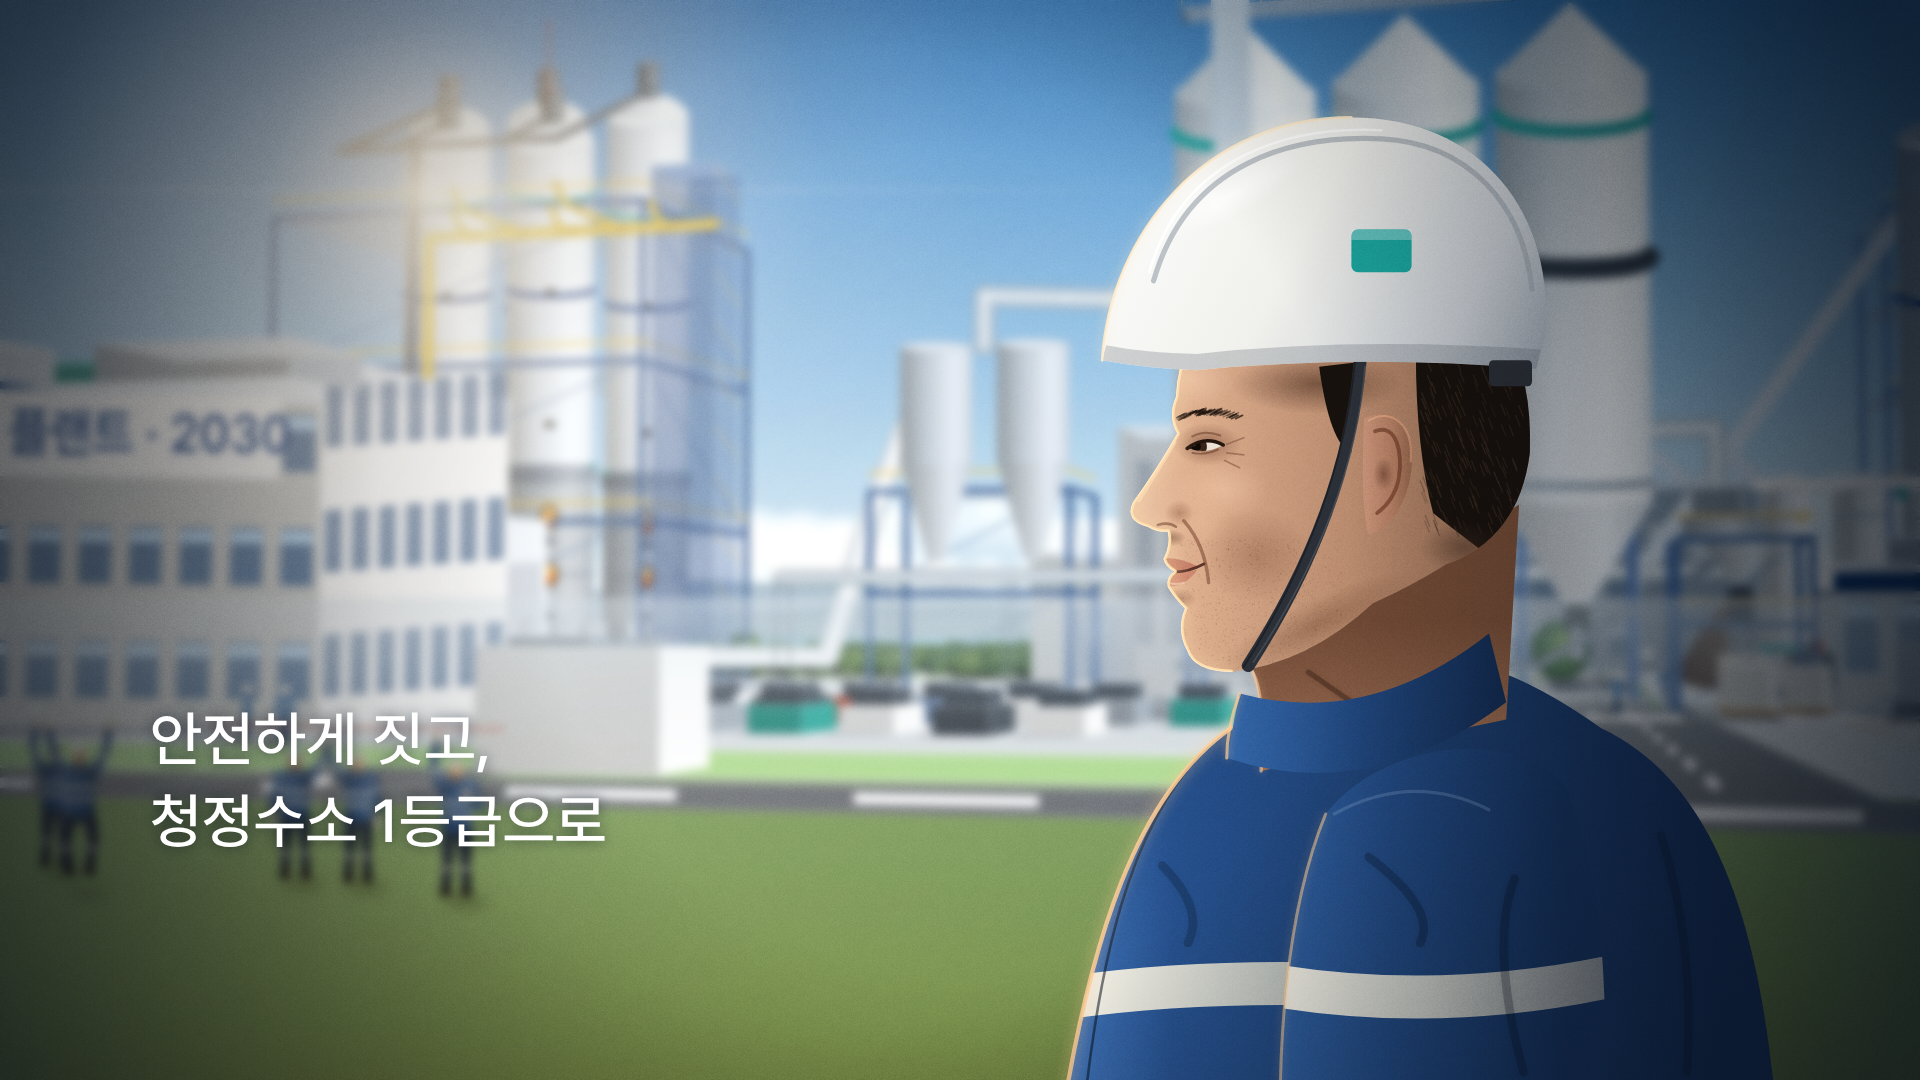
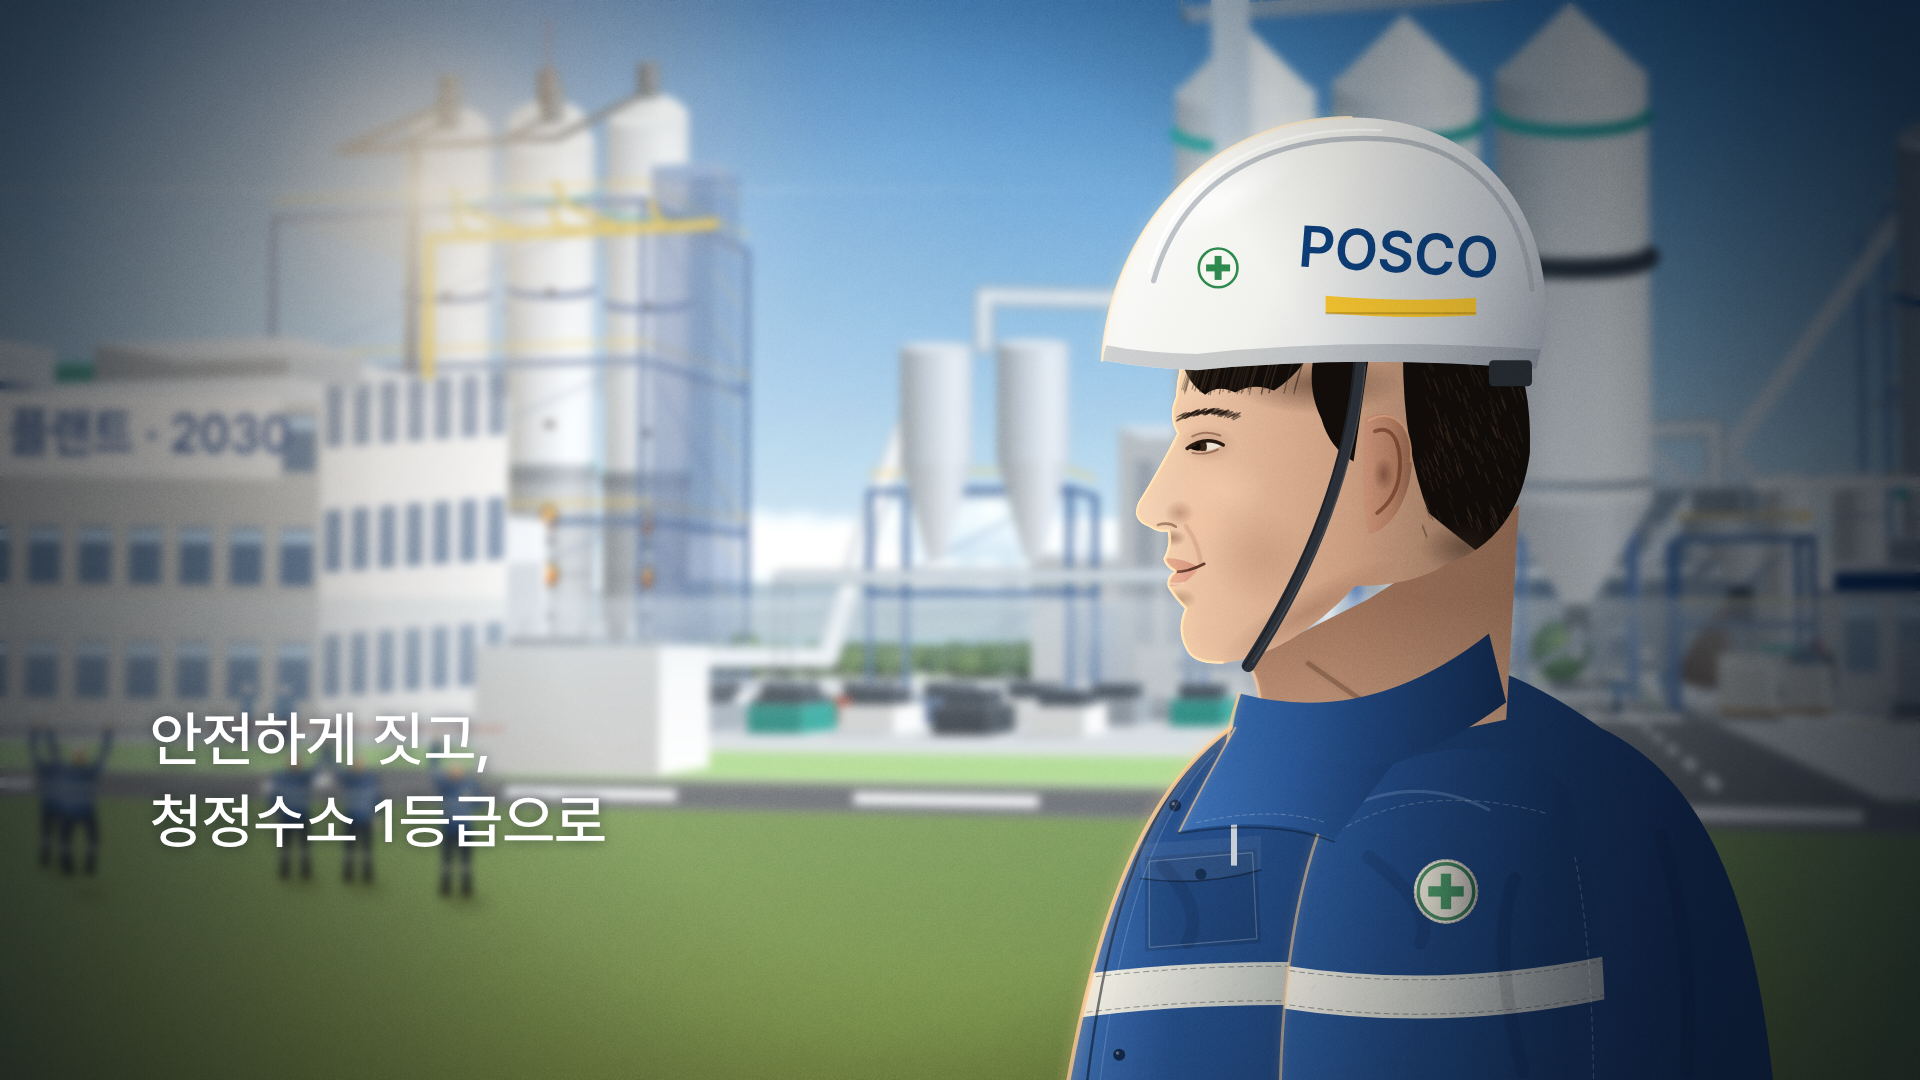
Plate 09A: younger worker, POSCO helmet, detailed workwear
Makes the worker read as late twenties: smoother skin, slimmer
jawline, smaller nose, fuller lips, no crow's feet or stubble, a softer
smile fold and a fringe showing under the brim. The helmet now carries
'POSCO' set in plain type (not a copy of the logo), a yellow band and a
green-cross safety sticker. The work jacket keeps its colour and gains
a shirt collar with stitching, a button placket, a flapped chest
pocket with a pen, an embroidered green-cross patch on the sleeve,
stitched reflective tape, seam lines and a fine twill texture.

Claude-Session: https://claude.ai/code/session_014isZxqUwGxKLbYEc2hccQ6

diff --git a/plates/plate09a_celebration.html b/plates/plate09a_celebration.html
@@ -1208,8 +1208,21 @@ function heroWorker(ox, oy, s) {
   // chest reflective band + placket
   g.fillStyle = lgH(-.64, .2, [[0, '#F4F1E6'], [.5, '#BFC3BE'], [1, '#7E848A']]); g.beginPath(); M(-.7, 1.18); Qc(-.3, 1.12, .2, 1.16); L(.2, 1.26); Qc(-.3, 1.22, -.7, 1.28); g.closePath(); g.fill();
   stroke('rgba(8,16,30,.55)', .006, () => { M(-.37, .66); Cc(-.52, .82, -.62, 1.1, -.66, 1.7); });
+  for (let i = 0; i < 2600; i++) { const x = -.75 + r() * 1.75, y = .5 + r() * 1.25; stroke(r() > .5 ? 'rgba(255,255,255,.018)' : 'rgba(0,0,0,.035)', .0025, () => { M(x, y); L(x + .008, y - .008); }); }
+  // chest pocket with flap, button and pen
+  g.fillStyle = 'rgba(0,0,0,.12)'; g.beginPath(); M(-.5, .9); L(-.24, .88); L(-.23, 1.1); L(-.5, 1.12); g.closePath(); g.fill();
+  stroke('rgba(255,255,255,.22)', .003, () => { M(-.49, .91); L(-.25, .89); L(-.24, 1.09); L(-.49, 1.11); g.closePath(); });
+  g.fillStyle = 'rgba(255,255,255,.06)'; g.beginPath(); M(-.51, .87); L(-.23, .85); L(-.23, .93); Qc(-.37, .97, -.51, .95); g.closePath(); g.fill();
+  stroke('rgba(0,0,0,.35)', .004, () => { M(-.51, .95); Qc(-.37, .97, -.23, .93); });
+  g.fillStyle = '#16304F'; g.beginPath(); g.arc(X(-.37), Y(.94), .013 * s, 0, 7); g.fill();
+  g.fillStyle = '#C9CFD6'; g.fillRect(X(-.3), Y(.8), .014 * s, .12 * s); g.fillStyle = '#1A1D22'; g.fillRect(X(-.302), Y(.78), .018 * s, .035 * s);
+  // buttons on the placket
+  [[-.43, .78], [-.56, 1.36], [-.62, 1.6]].forEach(([x, y]) => { g.fillStyle = '#14294A'; g.beginPath(); g.arc(X(x), Y(y), .014 * s, 0, 7); g.fill(); g.fillStyle = 'rgba(255,255,255,.35)'; g.beginPath(); g.arc(X(x) - .004 * s, Y(y) - .004 * s, .004 * s, 0, 7); g.fill(); });
+  stroke('rgba(255,255,255,.16)', .003, () => { M(-.34, .66); Cc(-.49, .82, -.59, 1.1, -.63, 1.7); });
+  // stitched edges of the chest band
+  g.save(); g.setLineDash([.012 * s, .01 * s]); stroke('rgba(60,60,60,.45)', .0025, () => { M(-.7, 1.19); Qc(-.3, 1.13, .2, 1.17); M(-.7, 1.27); Qc(-.3, 1.21, .2, 1.25); }); g.restore();
   // fabric folds
-  [[-.46, .92, -.36, 1.02, -.4, 1.1], [.7, .85, .78, 1.1, .76, 1.4]].forEach(([a, b, c, d, e, f]) => stroke('rgba(5,12,25,.22)', .02, () => { M(a, b); Qc(c, d, e, f); }, 6));
+  [[-.46, .92, -.36, 1.02, -.4, 1.1], [.7, .85, .78, 1.1, .76, 1.4]].forEach(([a, b, c, d, e, f]) => stroke('rgba(5,12,25,.1)', .03, () => { M(a, b); Qc(c, d, e, f); }, 10));
   g.restore();
   stroke('rgba(255,206,150,.85)', .01, () => { M(-.3, .6); Cc(-.5, .74, -.64, 1.05, -.72, 1.7); }, 14);       // warm rim on the chest edge
   // near arm (sleeve) with reflective band
@@ -1217,48 +1230,62 @@ function heroWorker(ox, oy, s) {
   arm(); g.fillStyle = lgH(-.2, .48, [[0, '#2F5E9E'], [.4, '#21477E'], [1, '#142E56']]); g.fill();
   g.save(); arm(); g.clip();
   g.fillStyle = lgH(-.2, .6, [[0, '#F1EEE4'], [.45, '#C3C6C1'], [1, '#6E747B']]); g.beginPath(); M(-.25, 1.14); Qc(.18, 1.22, .62, 1.12); L(.62, 1.22); Qc(.18, 1.32, -.25, 1.24); g.closePath(); g.fill();
-  [[.02, .9, .18, 1.02, .14, 1.1], [.36, .95, .3, 1.1, .38, 1.4]].forEach(([a, b, c, d, e, f]) => stroke('rgba(5,12,25,.25)', .02, () => { M(a, b); Qc(c, d, e, f); }, 6));
+  for (let i = 0; i < 900; i++) { const x = -.2 + r() * .8, y = .62 + r() * 1.1; stroke(r() > .5 ? 'rgba(255,255,255,.018)' : 'rgba(0,0,0,.035)', .0025, () => { M(x, y); L(x + .008, y - .008); }); }
+  g.save(); g.setLineDash([.012 * s, .01 * s]); stroke('rgba(60,60,60,.45)', .0025, () => { M(-.25, 1.15); Qc(.18, 1.23, .62, 1.13); M(-.25, 1.23); Qc(.18, 1.31, .62, 1.21); });
+  stroke('rgba(255,255,255,.2)', .0028, () => { M(-.05, .84); Qc(.15, .72, .44, .8); M(.5, .9); Cc(.54, 1.1, .55, 1.4, .54, 1.7); }); g.restore();
+  // embroidered safety patch (green cross) on the sleeve
+  { const c = [X(.2), Y(.98)], R = .075 * s; g.fillStyle = '#E9E4D2'; g.beginPath(); g.arc(c[0], c[1], R, 0, 7); g.fill(); g.strokeStyle = '#2E7A48'; g.lineWidth = .008 * s; g.beginPath(); g.arc(c[0], c[1], R * .86, 0, 7); g.stroke();
+    g.fillStyle = '#2E8A4E'; g.fillRect(c[0] - R * .16, c[1] - R * .55, R * .32, R * 1.1); g.fillRect(c[0] - R * .55, c[1] - R * .16, R * 1.1, R * .32);
+    g.save(); g.setLineDash([.006 * s, .005 * s]); g.strokeStyle = 'rgba(60,60,40,.5)'; g.lineWidth = .002 * s; g.beginPath(); g.arc(c[0], c[1], R * .98, 0, 7); g.stroke(); g.restore();
+    const q = g.createLinearGradient(c[0] - R, 0, c[0] + R, 0); q.addColorStop(0, 'rgba(255,255,255,.15)'); q.addColorStop(1, 'rgba(0,0,30,.35)'); g.fillStyle = q; g.beginPath(); g.arc(c[0], c[1], R, 0, 7); g.fill(); }
+  [[.02, .9, .18, 1.02, .14, 1.1], [.36, .95, .3, 1.1, .38, 1.4]].forEach(([a, b, c, d, e, f]) => stroke('rgba(5,12,25,.1)', .03, () => { M(a, b); Qc(c, d, e, f); }, 10));
   stroke('rgba(150,180,220,.25)', .008, () => { M(-.06, .8); Qc(.12, .7, .3, .79); });     // shoulder seam catch-light
   g.restore();
   stroke('rgba(255,206,150,.55)', .007, () => { M(-.08, .8); Cc(-.17, 1.02, -.2, 1.35, -.18, 1.7); }, 10);
 
   /* ---- neck (in shadow under the jaw) ---- */
   g.beginPath(); M(-.26, .44); Qc(-.22, .5, -.23, .7); L(.34, .58); L(.37, .08); L(.02, .3); g.closePath();
-  { const q = g.createLinearGradient(0, Y(.35), 0, Y(.66)); q.addColorStop(0, '#6E4834'); q.addColorStop(1, '#94684F'); g.fillStyle = q; g.fill(); }
-  stroke('rgba(60,36,24,.45)', .012, () => { M(-.12, .47); Qc(-.02, .54, .1, .62); }, 4);
+  { const q = g.createLinearGradient(0, Y(.3), 0, Y(.66)); q.addColorStop(0, '#9A7058'); q.addColorStop(1, '#C49A7E'); g.fillStyle = q; g.fill(); }
+  stroke('rgba(90,58,40,.35)', .012, () => { M(-.12, .45); Qc(-.02, .52, .1, .6); }, 4);
   stroke('rgba(255,200,150,.6)', .008, () => { M(-.25, .47); Qc(-.22, .52, -.23, .7); }, 8);
   // collar stand wraps the neck
   g.beginPath(); M(-.28, .52); Qc(.02, .6, .3, .38); L(.34, .54); Qc(.02, .78, -.31, .67); g.closePath(); g.fillStyle = lgH(-.31, .32, [[0, '#3466A8'], [.5, '#1F4479'], [1, '#132B50']]); g.fill();
   stroke('rgba(255,206,150,.7)', .007, () => { M(-.28, .52); Qc(-.31, .6, -.31, .67); }, 8);
+  g.beginPath(); M(-.29, .6); Qc(-.12, .7, .08, .68); L(-.06, .86); Qc(-.2, .8, -.42, .84); Qc(-.36, .72, -.29, .6); g.closePath();
+  g.fillStyle = lgH(-.42, .08, [[0, '#3F72B6'], [.5, '#2A5694'], [1, '#1A3A6A']]); g.fill();
+  g.save(); g.setLineDash([.01 * s, .008 * s]); stroke('rgba(255,255,255,.22)', .0025, () => { M(-.38, .82); Qc(-.2, .78, -.08, .82); }); g.restore();
+  stroke('rgba(0,0,0,.3)', .005, () => { M(-.42, .845); Qc(-.2, .81, -.06, .865); });
+  stroke('rgba(255,206,150,.6)', .005, () => { M(-.29, .6); Qc(-.36, .72, -.42, .84); }, 6);
 
   /* ---- head ---- */
   const profile = () => {                       // forehead -> brow -> nose -> lips -> chin -> under-jaw
     M(-.395, -.3); Qc(-.425, -.24, -.428, -.17); Qc(-.448, -.125, -.425, -.085);
-    Qc(-.47, -.005, -.528, .075); Qc(-.548, .118, -.494, .132); Qc(-.47, .146, -.447, .143);
+    Qc(-.465, -.005, -.515, .075); Qc(-.534, .116, -.49, .132); Qc(-.47, .146, -.447, .143);
     Qc(-.44, .176, -.457, .207); Qc(-.452, .226, -.432, .236); Qc(-.452, .25, -.447, .272);
-    Qc(-.43, .3, -.407, .322); Qc(-.428, .372, -.402, .42); Qc(-.386, .468, -.3, .47);
+    Qc(-.43, .3, -.407, .322); Qc(-.428, .372, -.405, .415); Qc(-.39, .452, -.32, .45);
   };
-  const head = () => { g.beginPath(); profile(); Qc(-.12, .45, .03, .31); Qc(.12, .27, .2, .22); Qc(.37, .16, .395, -.04); Qc(.4, -.22, .34, -.3); g.closePath(); };
-  head(); g.fillStyle = lgH(-.56, .4, [[0, '#F0CBAD'], [.18, '#DDAE8E'], [.55, '#B98B6E'], [1, '#86604A']]); g.fill();
+  const head = () => { g.beginPath(); profile(); Qc(-.16, .43, -.01, .27); Qc(.12, .27, .2, .22); Qc(.37, .16, .395, -.04); Qc(.4, -.22, .34, -.3); g.closePath(); };
+  head(); g.fillStyle = lgH(-.56, .4, [[0, '#F6D7BE'], [.18, '#EBC3A5'], [.55, '#C99D80'], [1, '#93705A']]); g.fill();
   g.save(); head(); g.clip();
   blob(-.39, -.21, .1, .07, '255,226,196', .35);                      // forehead highlight
-  blob(-.355, -.06, .08, .05, '96,52,34', .5);                        // eye socket
+  blob(-.355, -.06, .07, .045, '120,72,50', .28);                        // eye socket
   blob(-.32, .045, .11, .07, '255,214,182', .4);                      // cheekbone catches the sun
   blob(-.37, .12, .07, .06, '255,205,170', .25);                      // smiling cheek
-  blob(-.24, .2, .13, .11, '110,62,40', .32);                         // under the cheekbone
-  blob(-.1, .36, .26, .06, '90,52,34', .35, -.45);                    // jaw shadow
+  blob(-.22, .21, .13, .11, '140,90,66', .14);                         // under the cheekbone
+  blob(-.12, .33, .24, .05, '110,66,46', .3, -.5);
+  blob(-.25, .19, .1, .12, '150,100,76', .1);                    // jaw shadow
   blob(-.44, .158, .035, .02, '80,40,26', .55);                       // under the nose
   blob(-.42, .3, .04, .025, '90,48,32', .4);                          // under the lower lip
   blob(-.1, -.2, .2, .07, '60,34,22', .55);                           // helmet brim shadow
-  for (let i = 0; i < 900; i++) { const x = -.44 + r() * .4, y = .16 + r() * .32; if (x < -.43 + (y - .16) * .1 && y < .3) continue; g.fillStyle = `rgba(55,35,25,${.06 + r() * .1})`; g.fillRect(X(x), Y(y), 1.2, 1.2); }   // stubble
+  for (let i = 0; i < 0; i++) { const x = -.44 + r() * .4, y = .16 + r() * .32; if (x < -.43 + (y - .16) * .1 && y < .3) continue; g.fillStyle = `rgba(55,35,25,${.06 + r() * .1})`; g.fillRect(X(x), Y(y), 1.2, 1.2); }   // stubble
   // lips
-  g.fillStyle = 'rgba(176,88,72,.55)'; g.beginPath(); M(-.456, .207); Qc(-.43, .2, -.375, .225); L(-.432, .237); g.closePath(); g.fill();
-  g.fillStyle = 'rgba(192,98,82,.5)'; g.beginPath(); M(-.432, .238); Qc(-.39, .236, -.378, .232); Qc(-.41, .275, -.447, .27); g.closePath(); g.fill();
+  g.fillStyle = 'rgba(200,110,96,.5)'; g.beginPath(); M(-.456, .207); Qc(-.43, .2, -.375, .225); L(-.432, .237); g.closePath(); g.fill();
+  g.fillStyle = 'rgba(214,122,108,.48)'; g.beginPath(); M(-.432, .238); Qc(-.39, .236, -.378, .232); Qc(-.41, .275, -.447, .27); g.closePath(); g.fill();
   stroke('rgba(70,30,24,.85)', .006, () => { M(-.433, .237); Qc(-.4, .238, -.362, .218); });
   stroke('rgba(255,230,210,.5)', .005, () => { M(-.445, .262); Qc(-.43, .268, -.41, .262); });
   // smile fold, crow's feet
-  stroke('rgba(110,58,38,.5)', .008, () => { M(-.41, .118); Qc(-.36, .175, -.352, .262); });
-  [[-.31, -.06, -.27, -.075], [-.31, -.04, -.27, -.035], [-.315, -.022, -.28, -.005]].forEach(([a, b, c, d]) => stroke('rgba(110,62,42,.45)', .004, () => { M(a, b); L(c, d); }));
+  stroke('rgba(150,90,64,.16)', .01, () => { M(-.405, .13); Qc(-.375, .17, -.37, .22); }, 4);
+  
   // eye (smiling, slightly narrowed)
   const eye = () => { g.beginPath(); M(-.398, -.05); Qc(-.36, -.078, -.322, -.056); Qc(-.36, -.036, -.398, -.05); g.closePath(); };
   eye(); g.fillStyle = '#EDE2D6'; g.fill();
@@ -1274,8 +1301,10 @@ function heroWorker(ox, oy, s) {
   stroke('rgba(90,46,30,.55)', .006, () => { M(-.47, .128); Qc(-.445, .12, -.428, .132); });
   blob(-.42, .1, .035, .03, '120,64,42', .35);
   // hair: sideburn and short back hair under the helmet
-  g.fillStyle = '#17110D'; g.beginPath(); M(-.095, -.24); L(-.01, -.25); L(-.02, -.04); Qc(-.07, -.06, -.095, -.24); g.closePath(); g.fill();
-  g.beginPath(); M(.13, -.27); L(.36, -.29); Qc(.42, -.12, .39, .02); Qc(.36, .14, .3, .2); Qc(.22, .14, .17, .1); Qc(.13, -.05, .13, -.27); g.closePath(); g.fill();
+  g.fillStyle = '#120D0A'; g.beginPath(); M(-.11, -.25); L(.02, -.26); Qc(.0, -.12, -.015, -.02); Qc(-.07, -.05, -.09, -.12); Qc(-.12, -.18, -.11, -.25); g.closePath(); g.fill();
+  g.beginPath(); M(-.415, -.255); Qc(-.4, -.2, -.36, -.175); Qc(-.33, -.2, -.29, -.18); Qc(-.25, -.205, -.2, -.185); Qc(-.16, -.21, -.13, -.25); g.closePath(); g.fill();
+  for (let i = 0; i < 40; i++) { const x = -.4 + r() * .27; stroke(`rgba(60,44,34,${.3 + r() * .3})`, .003, () => { M(x, -.25); Qc(x - .01, -.22, x - .02, -.19 + r() * .015); }); }
+  g.beginPath(); M(.1, -.27); L(.37, -.29); Qc(.43, -.12, .4, .03); Qc(.37, .15, .3, .21); Qc(.22, .15, .16, .1); Qc(.1, -.05, .1, -.27); g.closePath(); g.fill();
   blob(.24, .18, .1, .06, '60,40,30', .5);
   for (let i = 0; i < 160; i++) { const x = .14 + r() * .23, y = -.26 + r() * .4; stroke(`rgba(70,52,40,${.25 + r() * .3})`, .003, () => { M(x, y); L(x + .01, y + .025); }); }
   g.restore();
@@ -1300,8 +1329,12 @@ function heroWorker(ox, oy, s) {
   stroke('rgba(150,158,168,.6)', .012, () => { M(-.48, -.44); Cc(-.4, -.72, -.15, -.78, .05, -.77); Cc(.25, -.76, .38, -.62, .4, -.42); });
   stroke('rgba(255,255,255,.9)', .006, () => { M(-.49, -.46); Cc(-.41, -.74, -.15, -.8, .05, -.79); });
   g.fillStyle = 'rgba(80,88,100,.25)'; g.beginPath(); M(-.6, -.255); Qc(-.5, -.236, -.38, -.232); Qc(0, -.27, .41, -.235); L(.42, -.28); Qc(0, -.31, -.38, -.27); Qc(-.5, -.272, -.59, -.29); g.closePath(); g.fill();
-  g.fillStyle = '#1BA39C'; g.beginPath(); g.roundRect(X(-.02), Y(-.56), .14 * s, .1 * s, .015 * s); g.fill();
-  g.fillStyle = 'rgba(255,255,255,.3)'; g.fillRect(X(-.02), Y(-.56), .14 * s, .025 * s);
+  g.save(); g.translate(X(.09), Y(-.5)); g.transform(1, .06, -.08, 1, 0, 0); g.font = font(600, .135 * s); g.textAlign = 'center'; g.textBaseline = 'middle'; g.fillStyle = '#0D3F7A'; g.fillText('POSCO', 0, 0); g.restore();
+  g.fillStyle = '#F2C230'; g.beginPath(); M(-.08, -.405); Qc(.1, -.39, .27, -.4); L(.27, -.36); Qc(.1, -.35, -.08, -.365); g.closePath(); g.fill();
+  g.fillStyle = 'rgba(120,90,10,.35)'; g.fillRect(X(-.08), Y(-.367), .35 * s, .005 * s);
+  { const c = [X(-.33), Y(-.47)], R = .045 * s; g.fillStyle = '#F7F7F2'; g.beginPath(); g.arc(c[0], c[1], R, 0, 7); g.fill(); g.strokeStyle = '#2E8A4E'; g.lineWidth = .006 * s; g.stroke();
+    g.fillStyle = '#2E8A4E'; g.fillRect(c[0] - R * .18, c[1] - R * .62, R * .36, R * 1.24); g.fillRect(c[0] - R * .62, c[1] - R * .18, R * 1.24, R * .36); }
+  
   g.restore();
   stroke('rgba(255,236,205,.9)', .006, () => { M(-.6, -.255); Cc(-.58, -.55, -.36, -.82, -.02, -.82); }, 12);
   g.fillStyle = '#2A2E36'; g.beginPath(); g.roundRect(X(.3), Y(-.255), .1 * s, .06 * s, .01 * s); g.fill();       // ratchet at the back
